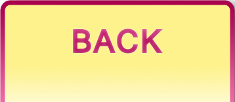
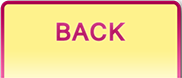
UI tweaks for demo purposes

Changed region(s): [[0.0, 0.0, 1.0, 1.0], [0.3022, 0.2564, 0.6868, 0.5385]]

diff --git a/index.html b/index.html
@@ -17,11 +17,11 @@
 		<div id="menu">
 			<div id="main-menu">
 				<div>
-					<img src="static/img/ui/options_tab_ui_wardrobe.png" width="235px" height="102px"
+					<img src="static/img/ui/options_tab_ui_wardrobe.png" width="182px" height="88px"
 						class="button wardrobe"></img>
-					<img id="options" src="static/img/ui/options_tab_ui_options.png" width="235px" height="102px"
+					<img id="options" src="static/img/ui/options_tab_ui_options.png" width="182px" height="88px"
 						class="button options"></img>
-					<img src="static/img/ui/options_tab_ui_back.png" width="235px" height="102px"
+					<img src="static/img/ui/options_tab_ui_back.png" width="182px" height="88px"
 						class="button back"></img>
 				</div>
 			</div>
@@ -36,7 +36,7 @@
 			alert("LOL");
 		});
 
-		var game = new Phaser.Game(1024, 600, Phaser.CANVAS, 'canvas', { preload: preload, create: create });
+		var game = new Phaser.Game(800, 450, Phaser.CANVAS, 'canvas', { preload: preload, create: create });
 
 		function preload () {
 			/*game.load.image('back_button', 'static/img/ui/options_tab_ui_back.png');

diff --git a/static/css/ui.css b/static/css/ui.css
@@ -1,21 +1,21 @@
 #menu {
 	position: absolute;
-	width: 1024px;
-	height: 600px;
+	width: 800px;
+	height: 450px;
 	overflow: hidden;
 }
 
 #main-menu {
 	position: absolute;
 	width: inherit;
-	bottom: -4px;
+	bottom: -18px;
 	height: 106px;
 }
 
 #main-menu > div {
 	text-align: center;
 	position: absolute;
-	bottom: -85px;
+	bottom: -60px;
 	width: inherit;
 }
 
@@ -23,21 +23,22 @@
 	-webkit-animation: show 0.5s;
 	-webkit-animation-fill-mode: forwards;
 	animation: show 0.5s;
-	animation-fill-mode: { bottom: -4px; }
+	animation-fill-mode: forwards;
 }
 
 @keyframes show {
-	from { bottom: -85px; }
-    to { bottom: -4px; }
+	from { bottom: -60px; }
+    to { bottom: 0px; }
 }
 
 @-webkit-keyframes show {
-	from { bottom: -85px; }
-    to { bottom: -4px; }
+	from { bottom: -60px; }
+    to { bottom: 0px; }
 }
 
 .button {
 	cursor: pointer;
+	box-shadow: 10px 10px 10px #888888;
 }
 
 .options {
